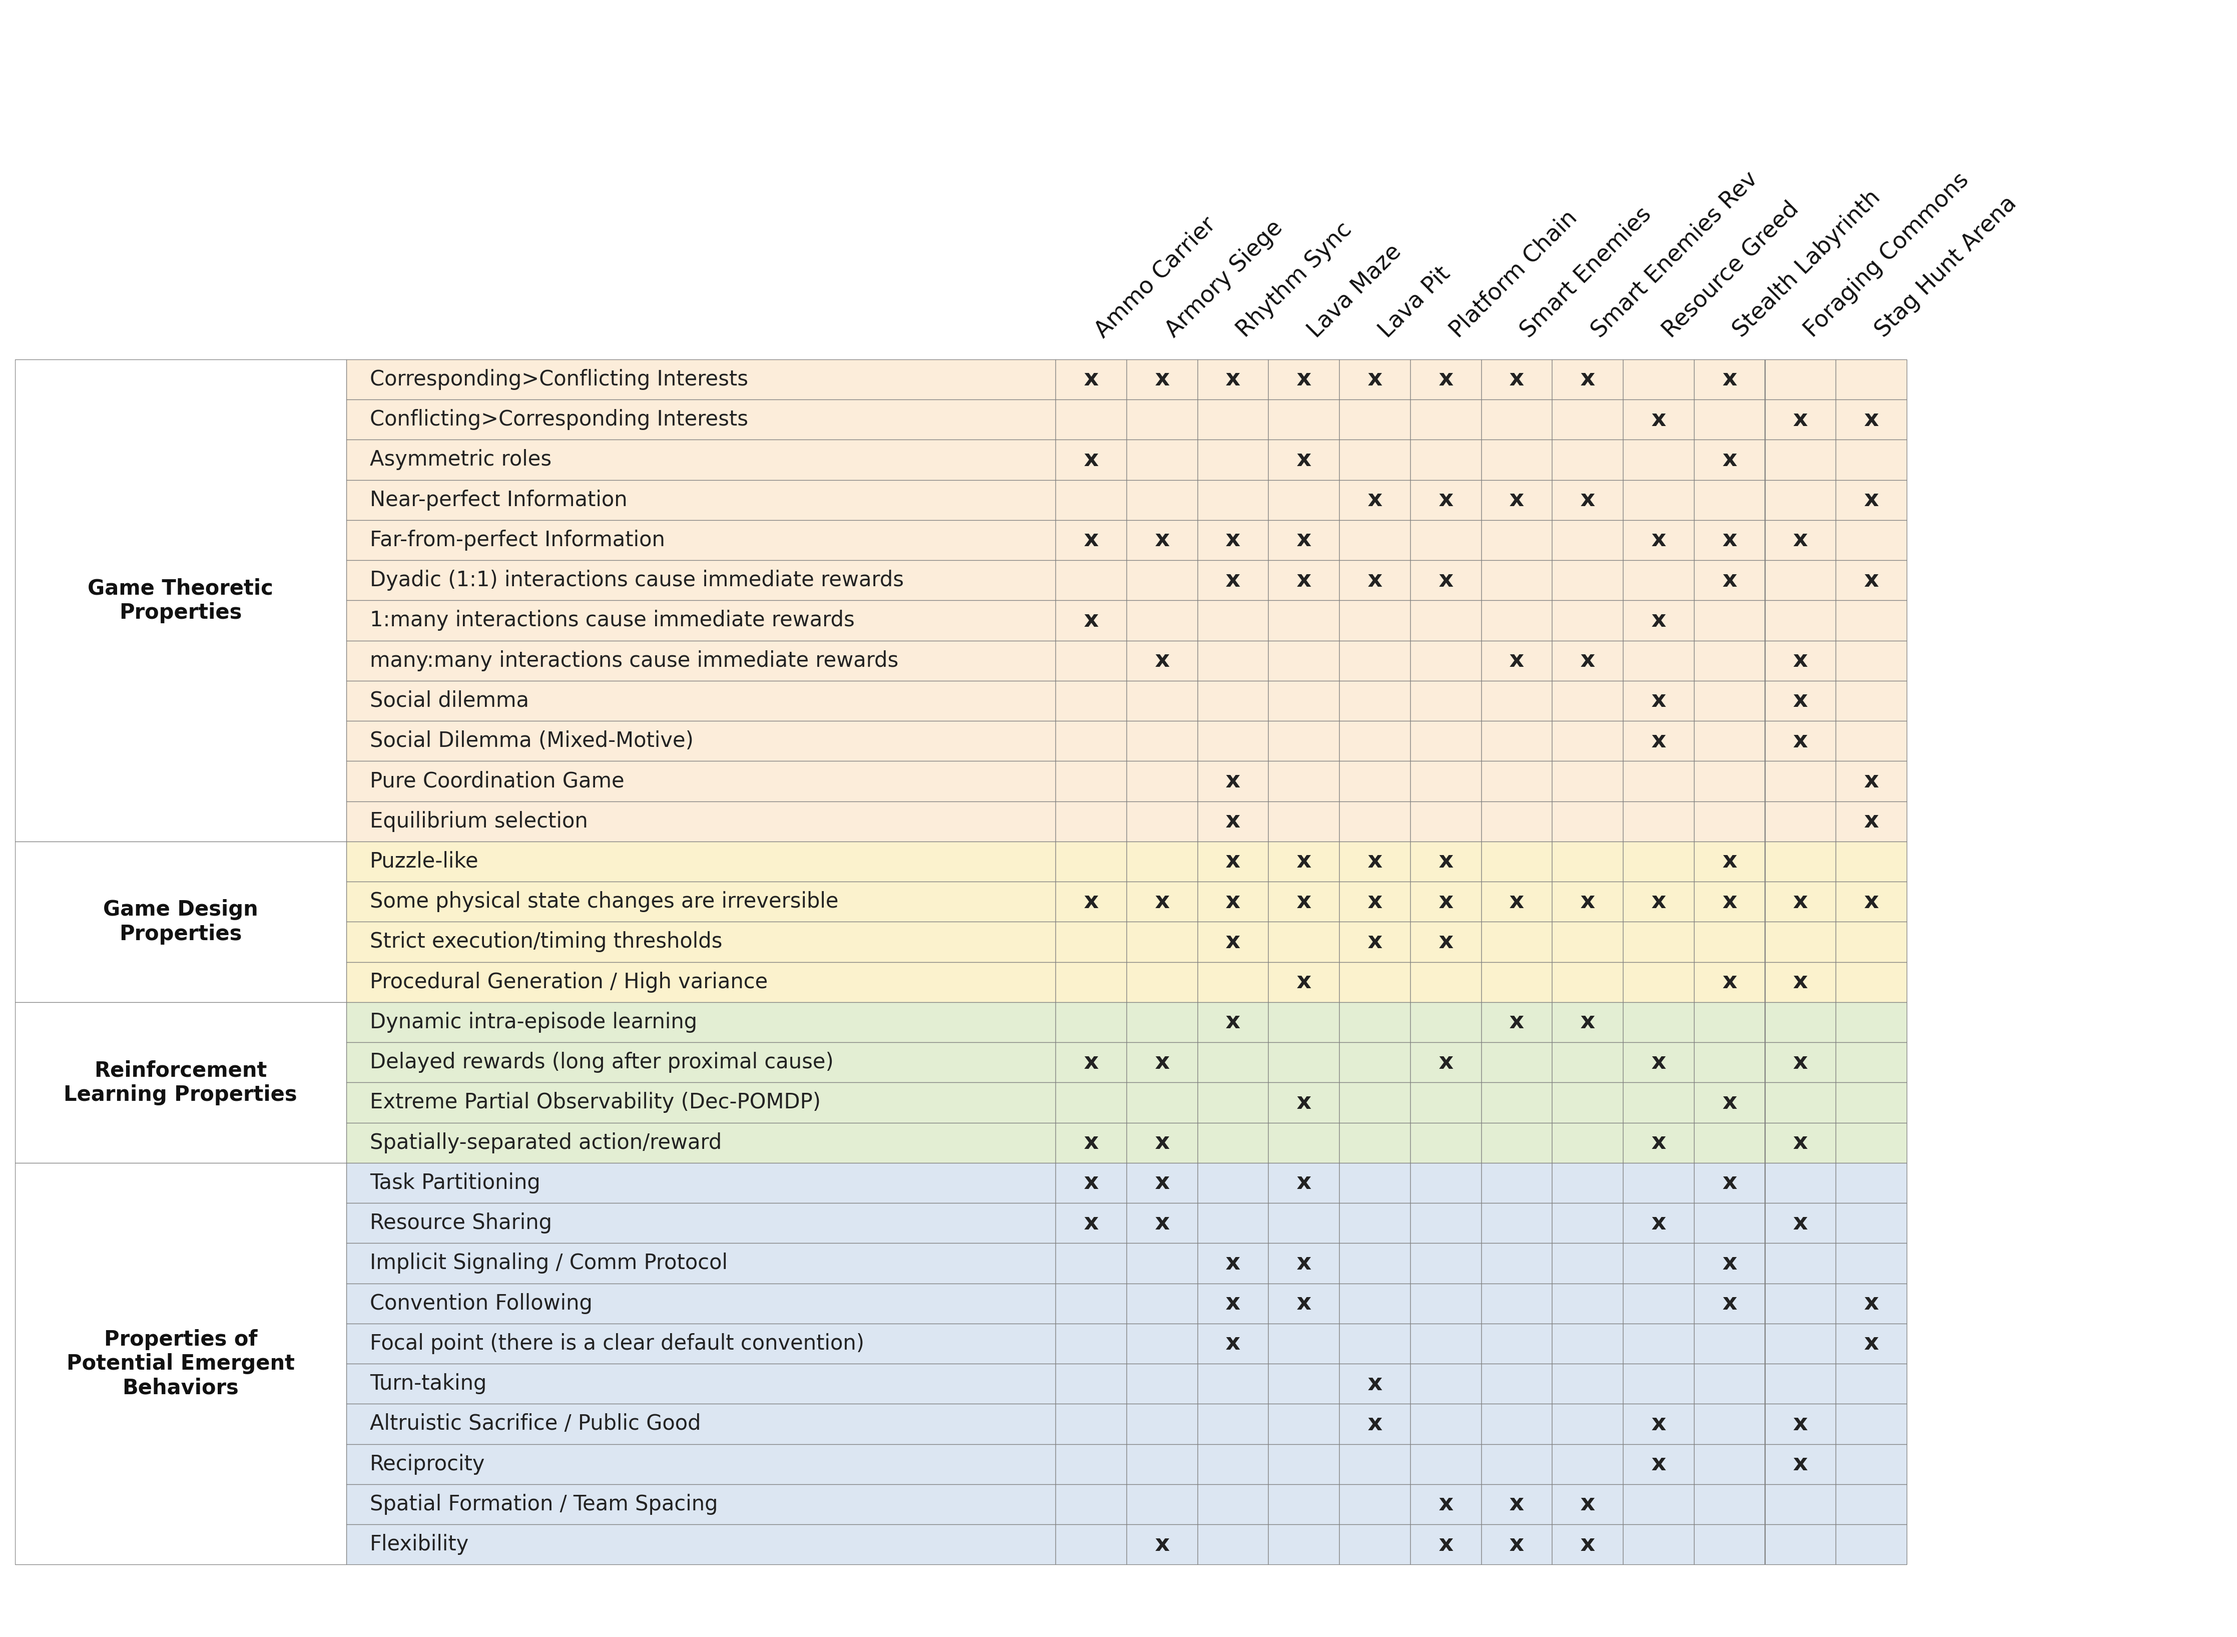
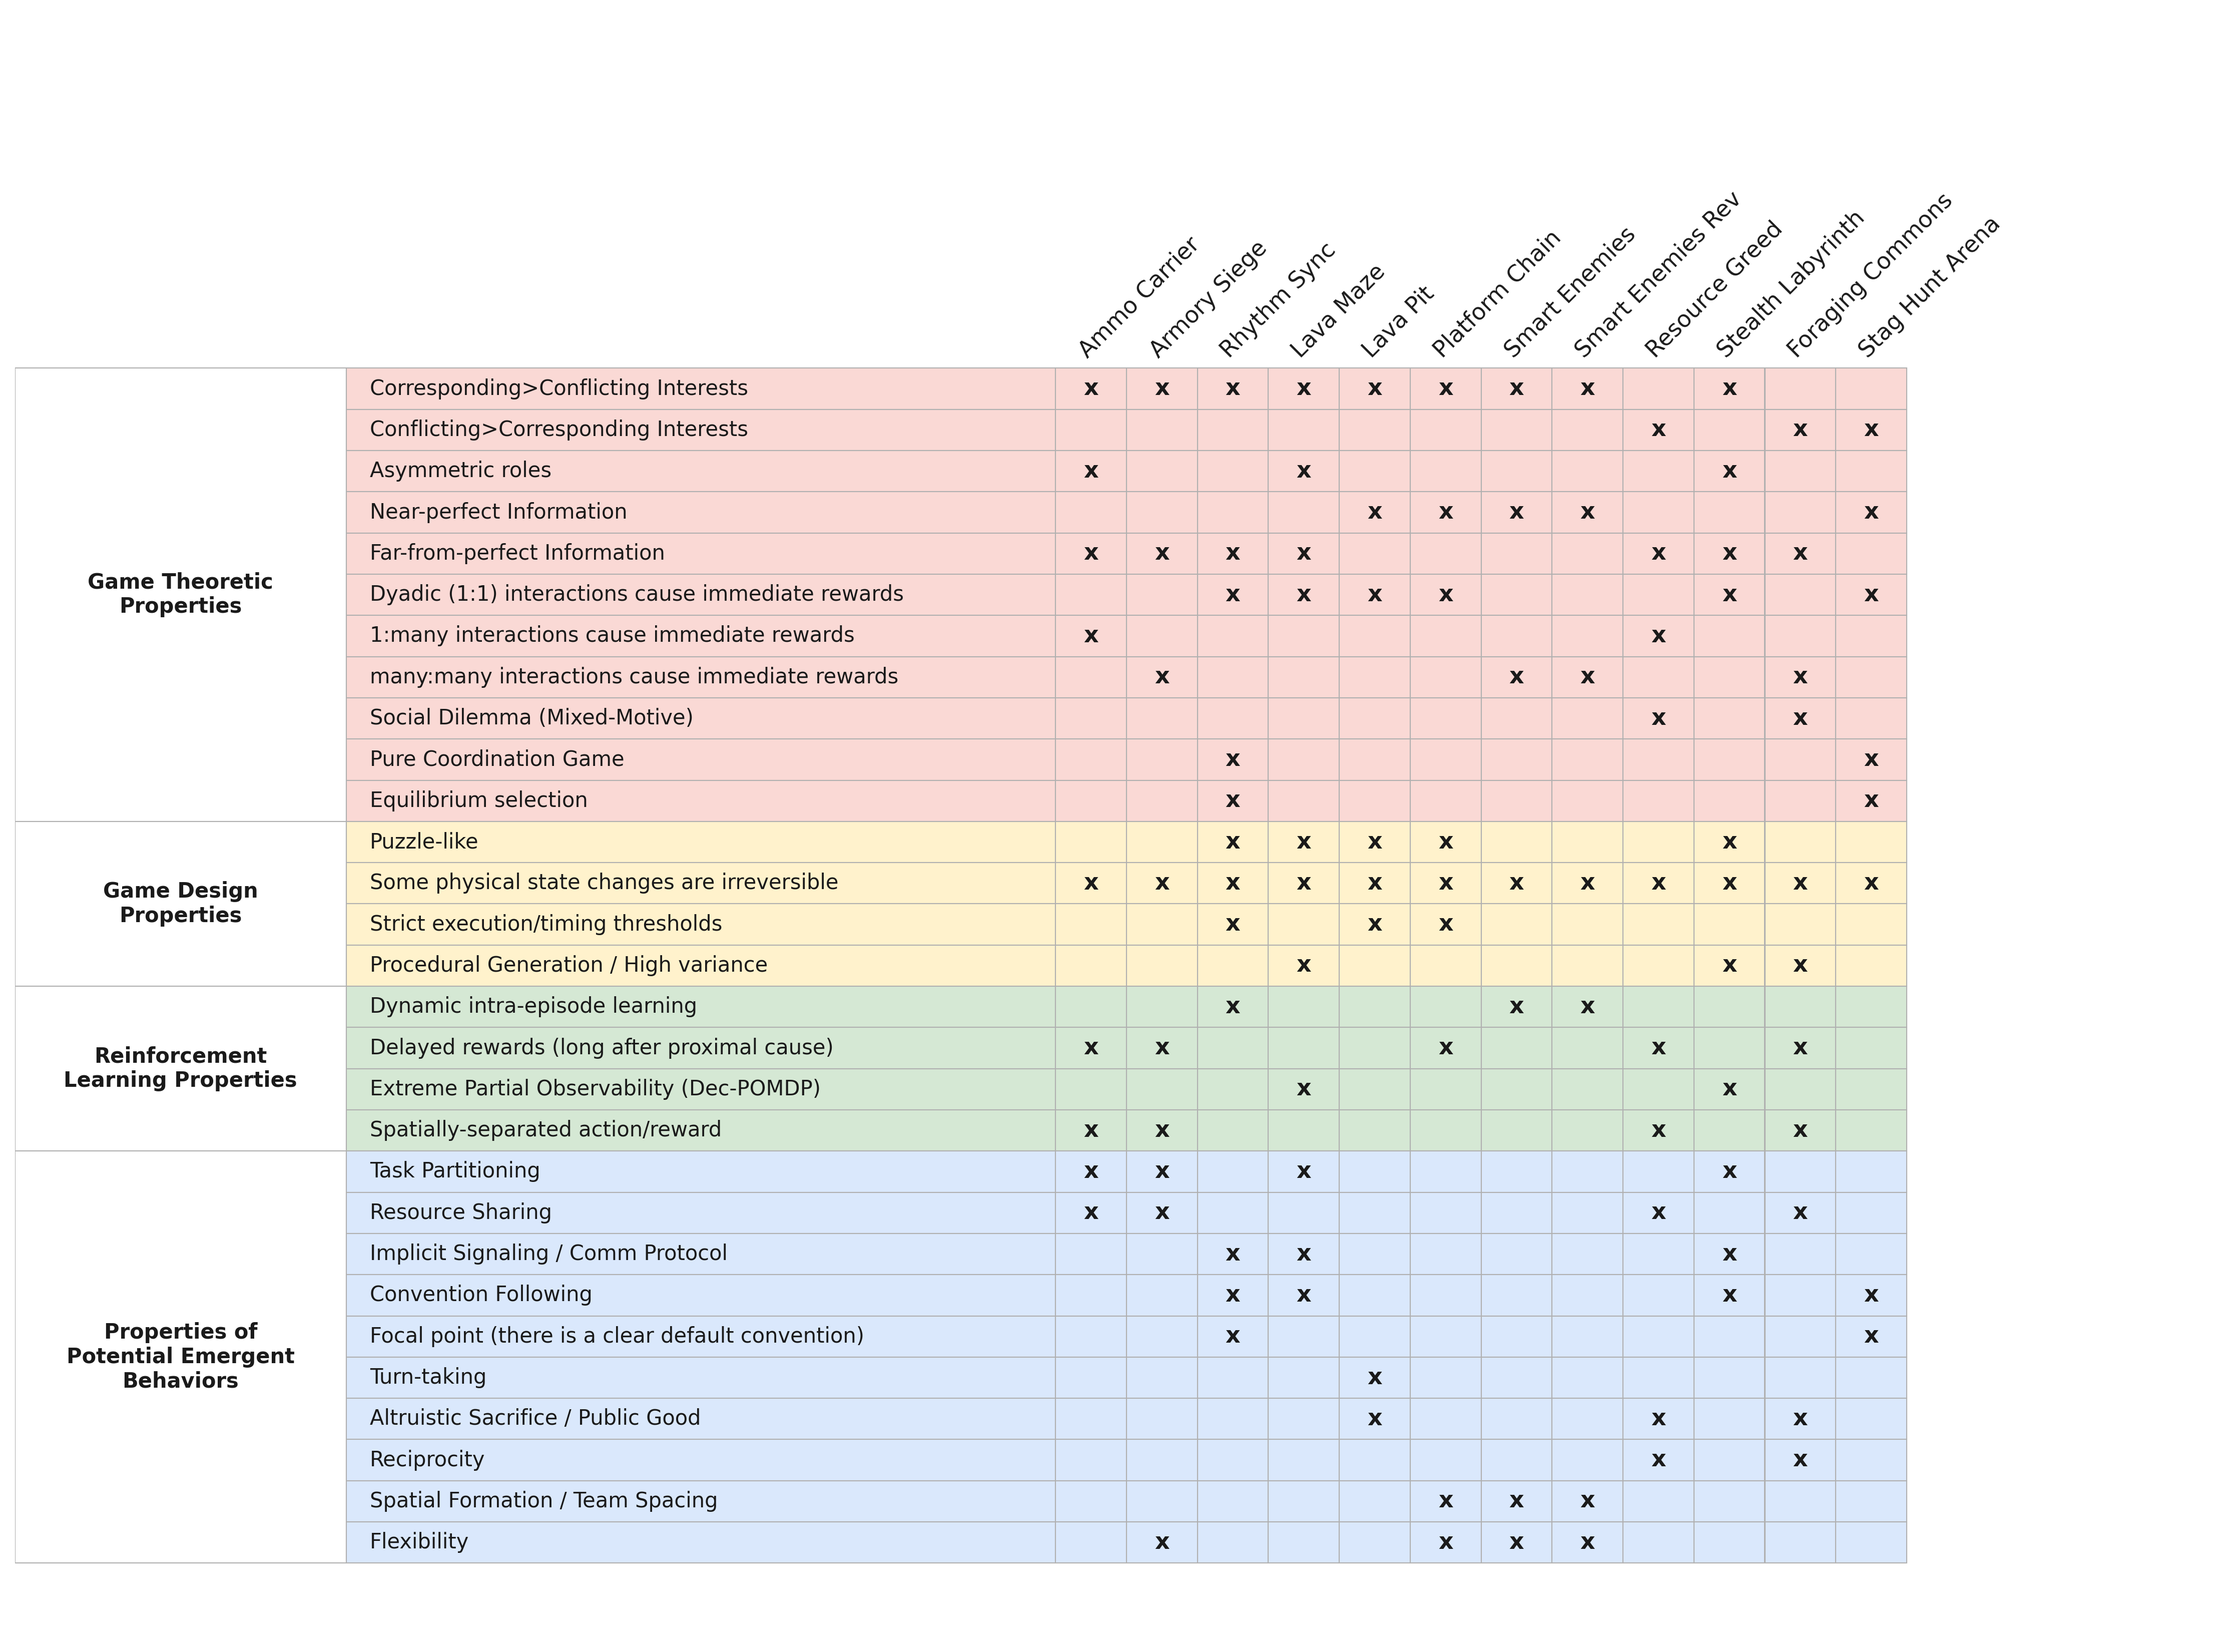
improve: styling of comparison table

diff --git a/scripts/comparison_table.py b/scripts/comparison_table.py
@@ -47,12 +47,14 @@ properties_data = [
 ]
 
 colors = {
-    "Game Theoretic\nProperties": "#fcedda",
-    "Game Design\nProperties": "#fbf2cd",
-    "Reinforcement\nLearning Properties": "#e3eed3",
-    "Properties of\nPotential Emergent\nBehaviors": "#dce6f2"
+    "Game Theoretic\nProperties": "#FAD9D5",
+    "Game Design\nProperties": "#FFF2CC",
+    "Reinforcement\nLearning Properties": "#D5E8D4",
+    "Properties of\nPotential Emergent\nBehaviors": "#DAE8FC"
 }
-
+border_color = '#B0B0B0'
+text_color = '#1A1A1A'
+plt.rcParams['font.family'] = 'sans-serif'
 
 fig, ax = plt.subplots(figsize=(15, 11))
 ax.axis('off')
@@ -77,40 +79,40 @@ for i, (cat, prop, marks) in enumerate(properties_data):
     bg_color = colors.get(cat, "#ffffff")
 
     # Draw property name
-    rect = patches.Rectangle((cat_col_w, y), prop_col_w, cell_h, linewidth=0.3, edgecolor='gray', facecolor=bg_color)
+    rect = patches.Rectangle((cat_col_w, y), prop_col_w, cell_h, linewidth=0.5, edgecolor=border_color, facecolor=bg_color)
     ax.add_patch(rect)
-    ax.text(cat_col_w + 0.15, y + cell_h/2, prop, va='center', ha='left', fontsize=10, color='#222222')
+    ax.text(cat_col_w + 0.15, y + cell_h/2, prop, va='center', ha='left', fontsize=10, color=text_color)
 
     # Draw checkmark
     for j, mark in enumerate(marks):
         x = cat_col_w + prop_col_w + j * cell_w
-        rect = patches.Rectangle((x, y), cell_w, cell_h, linewidth=0.3, edgecolor='gray', facecolor=bg_color)
+        rect = patches.Rectangle((x, y), cell_w, cell_h, linewidth=0.5, edgecolor=border_color, facecolor=bg_color)
         ax.add_patch(rect)
         if mark.strip():
-            ax.text(x + cell_w/2, y + cell_h/2, 'x', va='center', ha='center', fontsize=11, weight='bold', color='#222222')
+            ax.text(x + cell_w/2, y + cell_h/2, 'x', va='center', ha='center', fontsize=11, weight='bold', color=text_color)
 
     # Category box on the left
     if cat != current_cat:
         if current_cat is not None:
             # Draw last cat. box
             h = cat_start_y - (y + cell_h)
-            rect = patches.Rectangle((0, y + cell_h), cat_col_w, h, linewidth=0.3, edgecolor='gray', facecolor='#ffffff')
+            rect = patches.Rectangle((0, y + cell_h), cat_col_w, h, linewidth=0.5, edgecolor=border_color, facecolor='#ffffff')
             ax.add_patch(rect)
-            ax.text(cat_col_w/2, y + cell_h + h/2, current_cat, va='center', ha='center', fontsize=10, weight='bold', color='#111111')
+            ax.text(cat_col_w/2, y + cell_h + h/2, current_cat, va='center', ha='center', fontsize=10, weight='bold', color=text_color)
         current_cat = cat
         cat_start_y = y + cell_h
 
 # Draw the last category box
 h = cat_start_y - 0
-rect = patches.Rectangle((0, 0), cat_col_w, h, linewidth=0.3, edgecolor='gray', facecolor='#ffffff')
+rect = patches.Rectangle((0, 0), cat_col_w, h, linewidth=0.5, edgecolor=border_color, facecolor='#ffffff')
 ax.add_patch(rect)
-ax.text(cat_col_w/2, h/2, current_cat, va='center', ha='center', fontsize=10, weight='bold', color='#111111')
+ax.text(cat_col_w/2, h/2, current_cat, va='center', ha='center', fontsize=10, weight='bold', color=text_color)
 
 # Draw angled column headers
-header_y = total_height + 0.15
+header_y = total_height + 0.05
 for j, scenario in enumerate(scenarios):
     x = cat_col_w + prop_col_w + j * cell_w + (cell_w/2)
-    ax.text(x, header_y, scenario, rotation=45, va='bottom', ha='left', fontsize=11, color='#111111')
+    ax.text(x, header_y, scenario, rotation=45, va='bottom', ha='left', rotation_mode='anchor', fontsize=11, color=text_color)
 
 ax.set_xlim(0, total_width + 2)
 ax.set_ylim(-0.5, total_height + 3)
